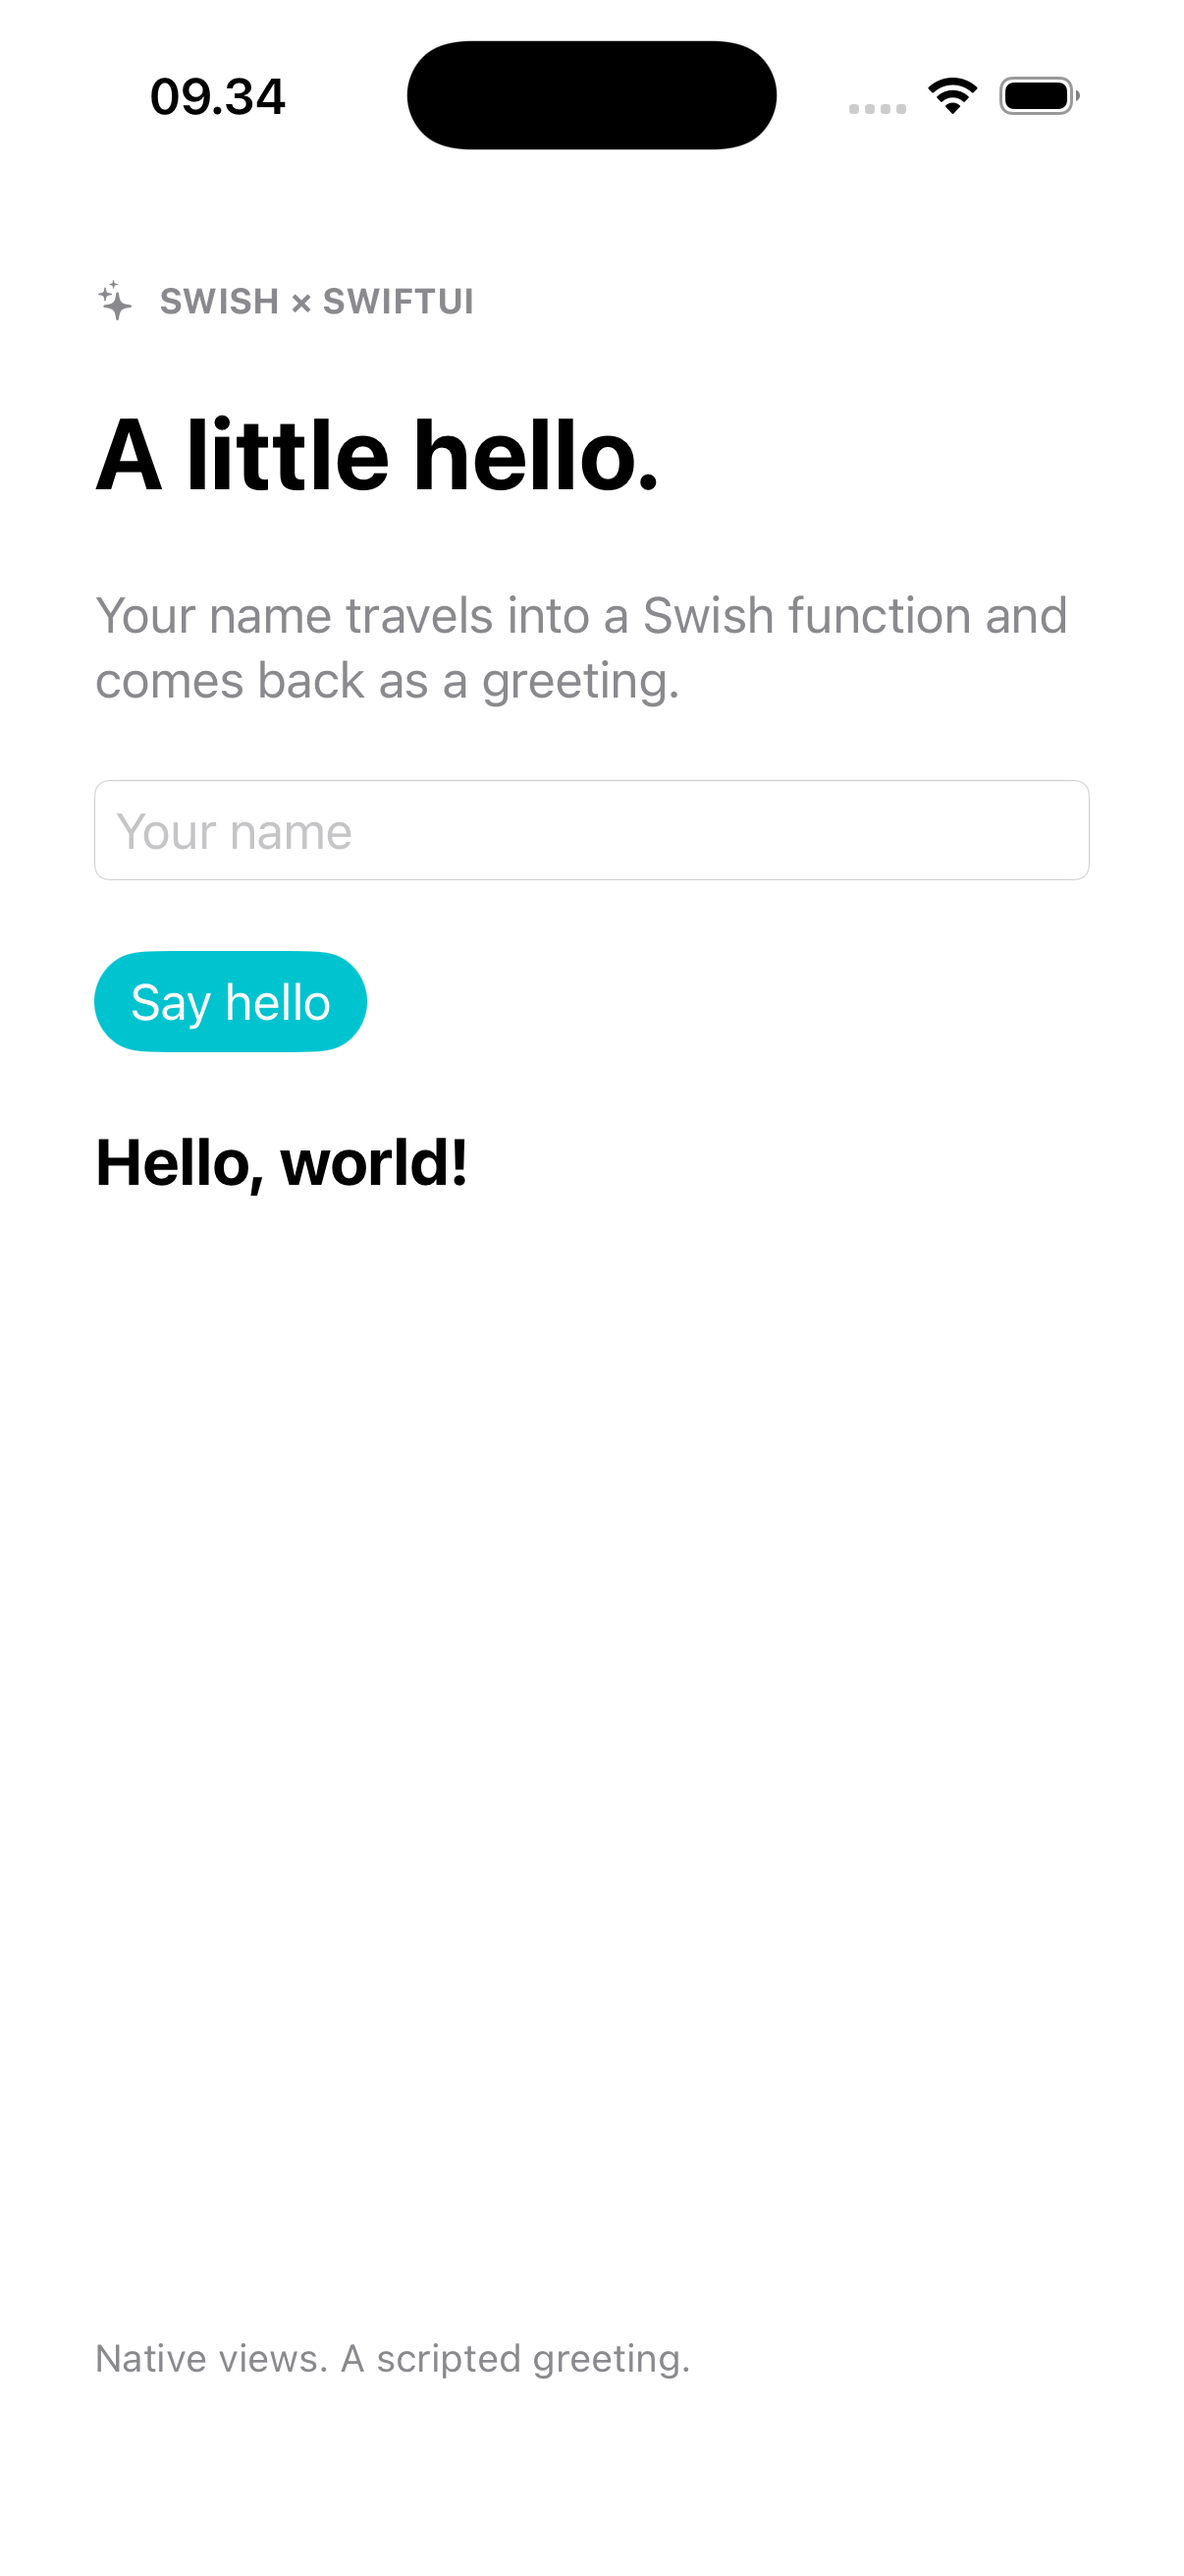
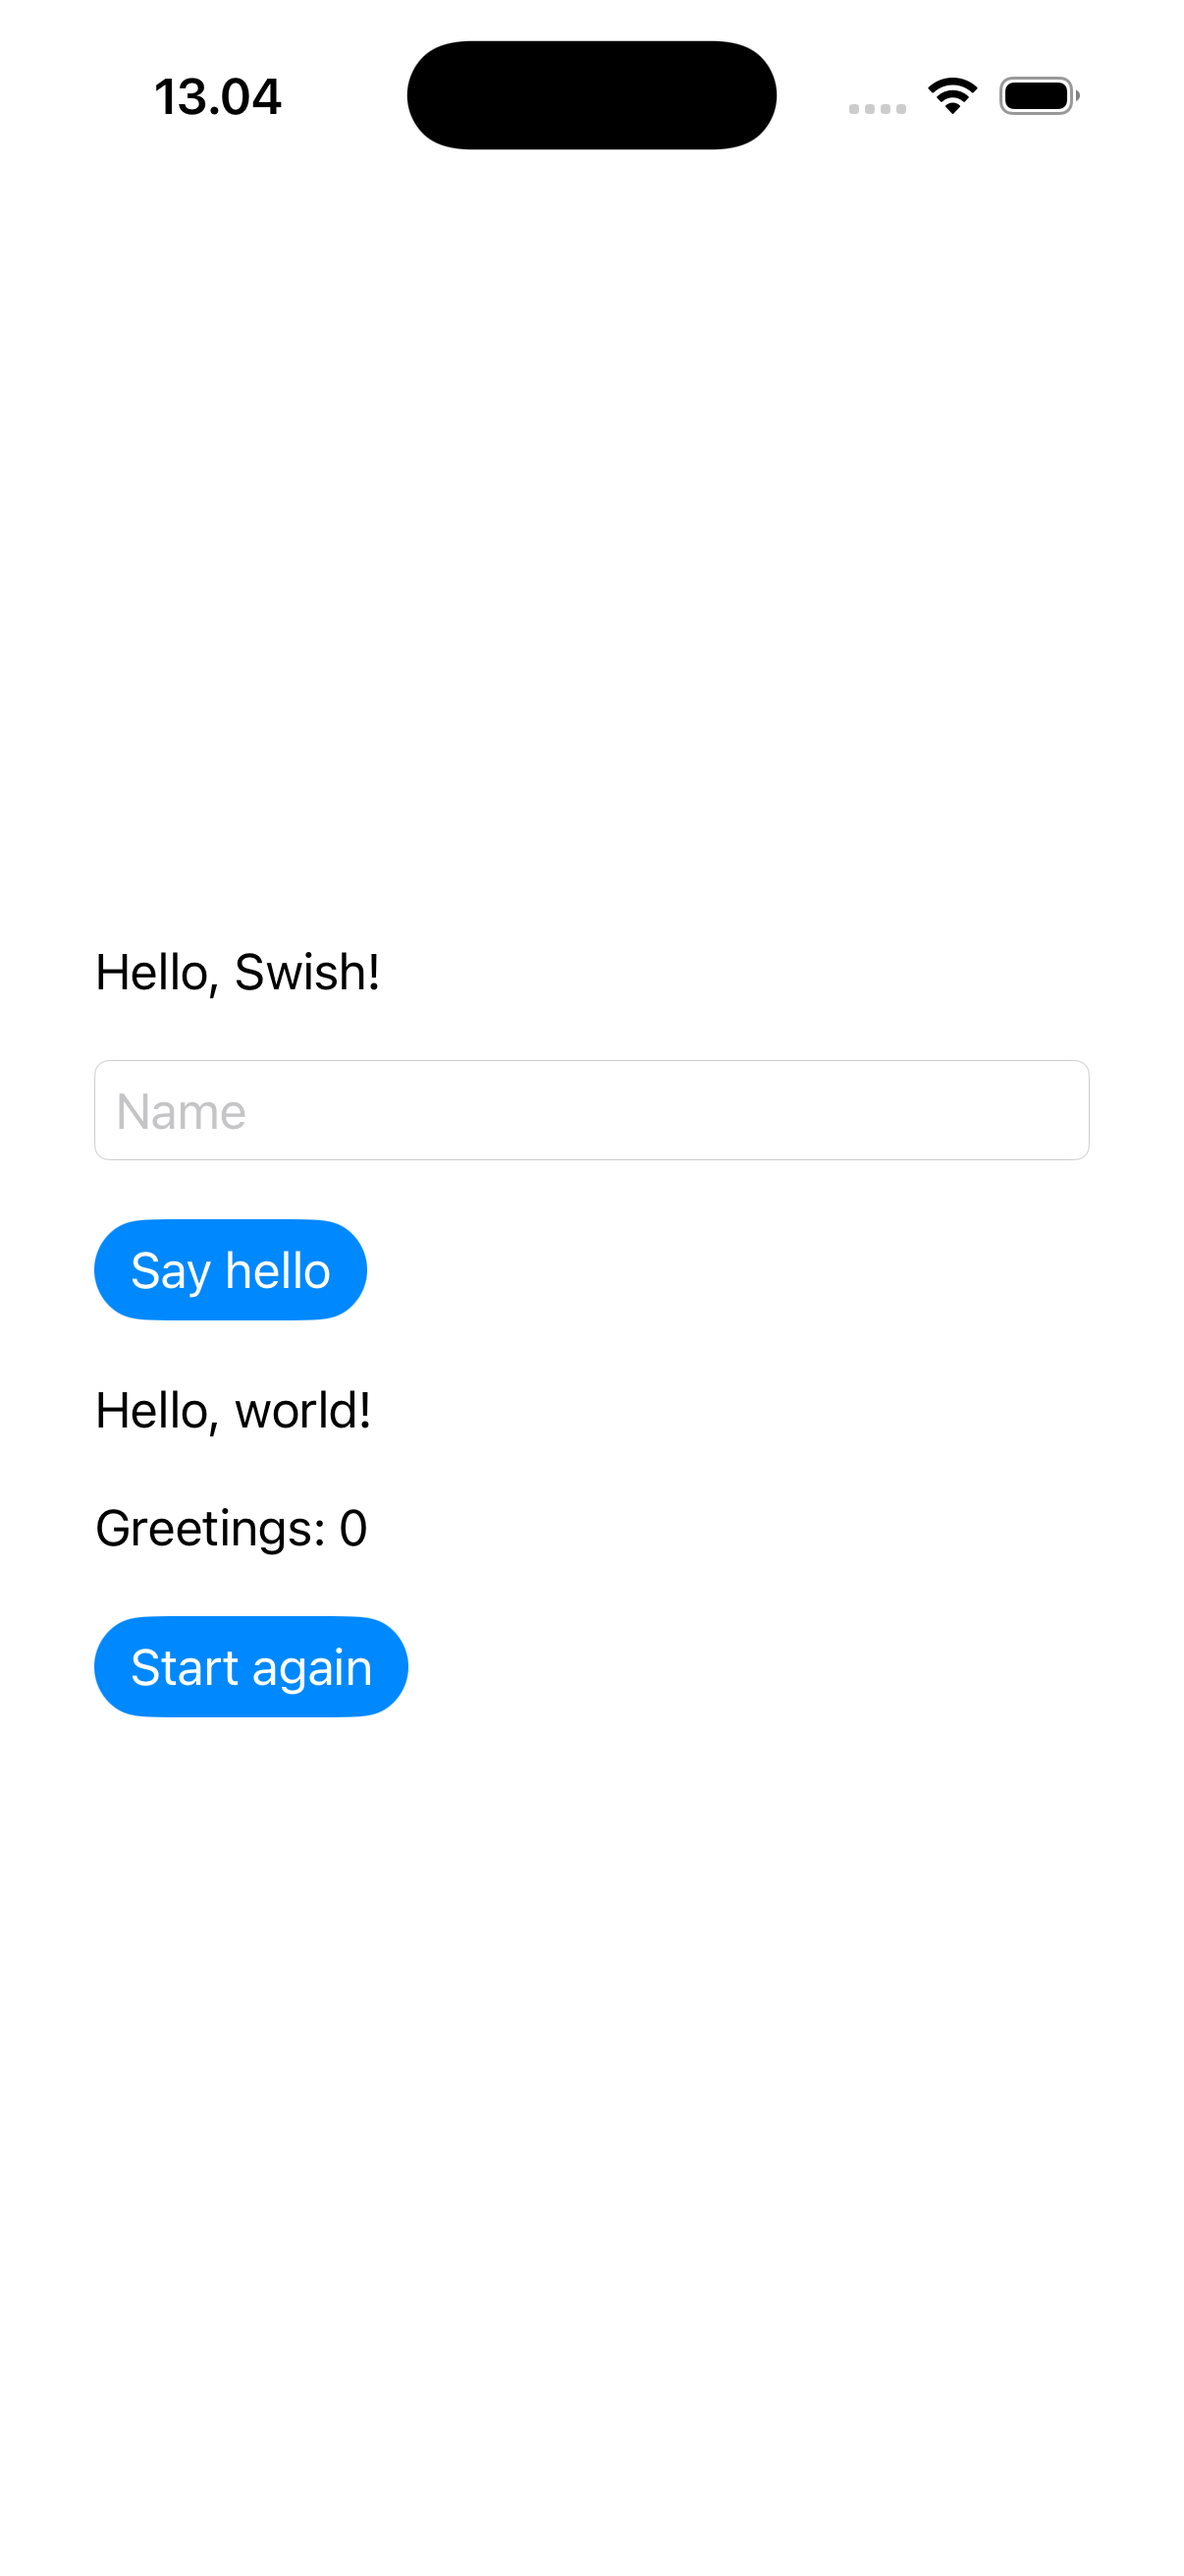
Move Swish demo state, events and screen definition into Swish

diff --git a/examples/swish/HelloSwish/Sources/HelloSwish/HelloSwish.swift b/examples/swish/HelloSwish/Sources/HelloSwish/HelloSwish.swift
@@ -4,43 +4,53 @@ import GreetingCore
 @main
 struct HelloSwishApp: App {
     var body: some Scene {
-        WindowGroup { GreetingView() }
+        WindowGroup { ScriptView() }
     }
 }
 
-struct GreetingView: View {
-    @State private var name = ""
-    @State private var greeting = ""
+// Swish owns the screen and events; this host renders three native controls.
+struct ScriptView: View {
+    @State private var elements: [Element] = []
     @State private var error: String?
     @State private var engine: Greeting?
 
     var body: some View {
-        VStack(alignment: .leading, spacing: 24) {
-            Label("SWISH × SWIFTUI", systemImage: "sparkles")
-                .font(.caption.weight(.bold)).foregroundStyle(.secondary)
-            Text("A little hello.").font(.largeTitle.bold())
-            Text("Your name travels into a Swish function and comes back as a greeting.")
-                .foregroundStyle(.secondary)
-            TextField("Your name", text: $name)
-                .textFieldStyle(.roundedBorder).accessibilityIdentifier("name")
-                .onSubmit { greet() }
-            Button("Say hello", action: greet)
-                .buttonStyle(.borderedProminent).accessibilityIdentifier("greet")
-            Text(greeting).font(.title2.bold()).accessibilityIdentifier("greeting")
+        VStack(alignment: .leading, spacing: 20) {
+            ForEach(elements) { element in
+                switch element.kind {
+                case "field":
+                    TextField(element.id.capitalized, text: Binding(
+                        get: { element.text },
+                        set: { send(element.id, value: $0) }
+                    ))
+                    .textFieldStyle(.roundedBorder)
+                    .accessibilityIdentifier(element.id)
+                case "button":
+                    Button(element.text) { send(element.id) }
+                        .buttonStyle(.borderedProminent)
+                        .accessibilityIdentifier(element.id)
+                default:
+                    Text(element.text).accessibilityIdentifier(element.id)
+                }
+            }
             if let error { Text(error).foregroundStyle(.red) }
-            Spacer()
-            Text("Native views. A scripted greeting.").font(.footnote).foregroundStyle(.secondary)
         }
         .padding(32).frame(maxWidth: 560, alignment: .leading)
-        .tint(.teal)
         .task {
-            do { engine = try Greeting(); greet() }
-            catch { self.error = error.localizedDescription }
+            do {
+                let engine = try Greeting()
+                self.engine = engine
+                elements = try engine.screen()
+            } catch { self.error = error.localizedDescription }
         }
     }
 
-    private func greet() {
-        do { greeting = try engine?.greet(name) ?? ""; error = nil }
-        catch { self.error = error.localizedDescription }
+    private func send(_ event: String, value: String = "") {
+        do {
+            guard let engine else { return }
+            try engine.send(event, value: value)
+            elements = try engine.screen()
+            error = nil
+        } catch { self.error = error.localizedDescription }
     }
 }

diff --git a/examples/swish/HelloSwish/Sources/GreetingCore/Greeting.swift b/examples/swish/HelloSwish/Sources/GreetingCore/Greeting.swift
@@ -1,6 +1,12 @@
 import Foundation
 import SwishKit
 
+public struct Element: Identifiable {
+    public let kind: String
+    public let id: String
+    public let text: String
+}
+
 public final class Greeting {
     private let swish = Swish()
 
@@ -9,16 +15,32 @@ public final class Greeting {
         try swish.load(filename: url.path)
     }
 
-    public func greet(_ name: String) throws -> String {
-        // Encode data as a string literal; user input must never become program text.
+    public func screen() throws -> [Element] {
+        guard case .vector(let nodes, _) = try swish.eval("(screen)") else {
+            throw invalidScreen()
+        }
+        return try nodes.elements.map { node in
+            guard case .vector(let parts, _) = node, parts.count == 3,
+                  case .keyword(let kind) = parts[0],
+                  ["text", "field", "button"].contains(kind),
+                  case .keyword(let id) = parts[1],
+                  case .string(let text) = parts[2] else { throw invalidScreen() }
+            return Element(kind: kind, id: id, text: text)
+        }
+    }
+
+    public func send(_ event: String, value: String = "") throws {
+        // Both strings are encoded as data, including the event identifier.
         let encoder = JSONEncoder()
         encoder.outputFormatting = [.withoutEscapingSlashes]
-        let literal = String(decoding: try encoder.encode(name), as: UTF8.self)
-        let result = try swish.eval("(hello \(literal))")
-        guard case .string(let text) = result else {
-            throw NSError(domain: "HelloSwish", code: 1,
-                          userInfo: [NSLocalizedDescriptionKey: "The script must return a string."])
+        func literal(_ text: String) throws -> String {
+            String(decoding: try encoder.encode(text), as: UTF8.self)
         }
-        return text
+        _ = try swish.eval("(dispatch! (keyword \(try literal(event))) \(try literal(value)))")
+    }
+
+    private func invalidScreen() -> NSError {
+        NSError(domain: "HelloSwish", code: 1,
+                userInfo: [NSLocalizedDescriptionKey: "Expected [kind id text] controls from Swish."])
     }
 }

diff --git a/examples/swish/HelloSwish/Tests/GreetingCoreTests/GreetingTests.swift b/examples/swish/HelloSwish/Tests/GreetingCoreTests/GreetingTests.swift
@@ -2,10 +2,36 @@ import XCTest
 @testable import GreetingCore
 
 final class GreetingTests: XCTestCase {
+    private func text(_ id: String, in engine: Greeting) throws -> String? {
+        try engine.screen().first { $0.id == id }?.text
+    }
+
+    func testScreenAndEvents() throws {
+        let engine = try Greeting()
+        XCTAssertEqual(try engine.screen().map(\.kind),
+                       ["text", "field", "button", "text", "text", "button"])
+        XCTAssertEqual(try text("greeting", in: engine), "Hello, world!")
+        XCTAssertEqual(try text("count", in: engine), "Greetings: 0")
+        try engine.send("name", value: "Ada")
+        XCTAssertEqual(try text("name", in: engine), "Ada")
+        XCTAssertEqual(try text("greeting", in: engine), "Hello, world!")
+        try engine.send("greet")
+        try engine.send("greet")
+        XCTAssertEqual(try text("greeting", in: engine), "Hello, Ada!")
+        XCTAssertEqual(try text("count", in: engine), "Greetings: 2")
+        try engine.send("reset")
+        XCTAssertEqual(try text("name", in: engine), "")
+        XCTAssertEqual(try text("greeting", in: engine), "Hello, world!")
+        XCTAssertEqual(try text("count", in: engine), "Greetings: 0")
+    }
+
     func testScriptBoundary() throws {
         let engine = try Greeting()
         for name in ["", "Ada", "Ægir", "\" ) (throw 1) ;", "line\nbreak", "a/b"] {
-            XCTAssertEqual(try engine.greet(name), "Hello, \(name.isEmpty ? "world" : name)!")
+            try engine.send("name", value: name)
+            try engine.send("greet")
+            XCTAssertEqual(try text("greeting", in: engine),
+                           "Hello, \(name.isEmpty ? "world" : name)!")
         }
     }
 }

diff --git a/README.md b/README.md
@@ -29,7 +29,7 @@ Updated as each demo is verified. “Working” means the listed execution check
 | Glojure OCI service | [Working demo](examples/glojure/) | Static native build; scratch OCI image; health, named/default and Unicode requests under a non-root, read-only container; Linux ARM64. |
 | Clojerl two-node actors | [Working demo](examples/clojerl/) | Two separate BEAM nodes exchanged correlated greeting replies with actor-owned request counts; OTP 26, Linux ARM64. |
 | jank native graphics | [Working demo](examples/jank/) | Native macOS and Linux ARM64 SDL windows; Linux now runs directly on the host with a local LLVM/GCC bundle; synthetic Space key and captured pixels verified. Linux ARM64 source build also passes jank JIT/AOT health checks; x86-64 emulation remains an optional fallback. |
-| Swish + SwiftUI | [Working demo](examples/swish/) | macOS ARM64 build and script boundary tests; iOS 26.5 simulator build, install, launch and screenshot verified on the Mac host over SSH. |
+| Swish + SwiftUI | [Working demo](examples/swish/) | Swish defines the screen, atom-backed state and events; a SwiftUI host renders native controls. macOS tests and iOS 26.5 simulator launch/screenshot verified. |
 | Clojure / JVM HTTP + REPL | [Working demo](examples/jvm/) | Linux ARM64: HTTP greetings, Java timestamp, socket REPL redefinition and preserved atom counter; nine integration assertions passed. |
 | ClojureCLR / C# interop | [Working demo](examples/clr/) | Native Linux ARM64, .NET SDK 8.0.425 (no container): C# calls ClojureCLR; .NET formatting and UTC date APIs; default, Unicode and quoted-input checks passed. |
 | SCI / self-interpreting mini-Clojure | [Working demo](examples/sci-tower/) | Babashka/SCI on Linux ARM64: four nested interpreter copies; 32 assertions for greetings, recursion, closures, quoting and errors passed. |
@@ -277,7 +277,7 @@ Use a common theme—**“Hello, <name>!”**—with one interaction or observab
 | Cljbang / ClojureElisp | Interactive Emacs command that asks for a name and opens a greeting buffer. | Interactive commands, buffers and Lisp extensibility. | Add a small minor mode with a greeting keybinding. |
 | TimL | Vim command that greets the user in a scratch buffer. | Vim commands, buffers and mappings. | Update the greeting from the word under the cursor. |
 | obb | macOS automation script that prompts for a name using a native dialog and displays a greeting. | Open Scripting Architecture and application automation. | Read the title of the active browser tab and include it in the greeting. |
-| Swish | SwiftUI screen whose greeting is computed by an embedded Swish function called from Swift. | A native Swift application with an embedded scripting layer. | Reload the greeting script without rebuilding the host app. |
+| Swish | Swish-defined screen, state and event handlers rendered by a small SwiftUI host. | A native Swift application with an embedded scripting layer. | Reload the greeting script without rebuilding the host app. |
 | Arcadia | Unity scene with a greeting sign and a cube that rotates when clicked. | Game objects, components and frame updates. | Change the rotation behaviour through the REPL. |
 | Rust-targeted Clojure (implementation open) | Explore Raspberry Pi firmware: emit a serial greeting or blink an LED, only if the compiler supports a suitable bare-metal target. | Rust toolchain integration, board startup and hardware I/O. | Establish `no_std`, allocation and peripheral-access support first; deferred for this batch. |
 | Ferret | Microcontroller blinks an LED and writes a greeting over serial. | Firmware, hardware I/O and an embedded main loop. | A physical button triggers the greeting. |

diff --git a/examples/swish/README.md b/examples/swish/README.md
@@ -1,9 +1,20 @@
 # Swish inside SwiftUI
 
-A native SwiftUI app embeds a Swish interpreter. The greeting function lives in
-[greeting.swish](HelloSwish/Sources/GreetingCore/Resources/greeting.swish);
-Swift owns the text field and button. Input is encoded as a string literal before
-calling the script, including quotes and newlines.
+Swish owns the application: an atom holds the name, greeting and click count;
+`dispatch!` handles edits, greetings and resets; `screen` returns vectors
+describing the native controls. All of that lives in
+[greeting.swish](HelloSwish/Sources/GreetingCore/Resources/greeting.swish).
+
+For example, `[:button :greet "Say hello"]` renders a native button that sends
+the `:greet` event back to Swish. Swift only loads the interpreter, decodes
+`[kind id text]` vectors, and renders text, fields and buttons in a SwiftUI stack.
+This tiny renderer is part of the demo, not a built-in Swish UI library.
+After each event it asks Swish for the screen again. User input and event names
+are encoded as string literals at the interpreter boundary.
+
+Type a name, press **Say hello**, and watch the greeting and counter change.
+**Start again** resets the state. Change the script to rearrange controls or
+change their behavior without editing Swift; rerun to load the bundled script.
 
 On a Mac with Xcode and Swift 6.2 or later:
 
@@ -28,7 +39,7 @@ for a physical iPhone or distribute the app.
 
 Verified 2026-09-11 on an Apple Silicon Mac reached from the Linux VM over SSH:
 
-- macOS build and XCTest checks for default, named, Unicode, quoted, newline and slash input passed.
+- macOS build and XCTest checks for the screen, editing, greeting count, reset, and default, named, Unicode, quoted, newline and slash input passed.
 - iOS 26.5 simulator build, install and launch passed; the rendered screen displayed the greeting produced by Swish.
 - Screenshot inspected; simulator typing/button interaction has not been automated.
 
